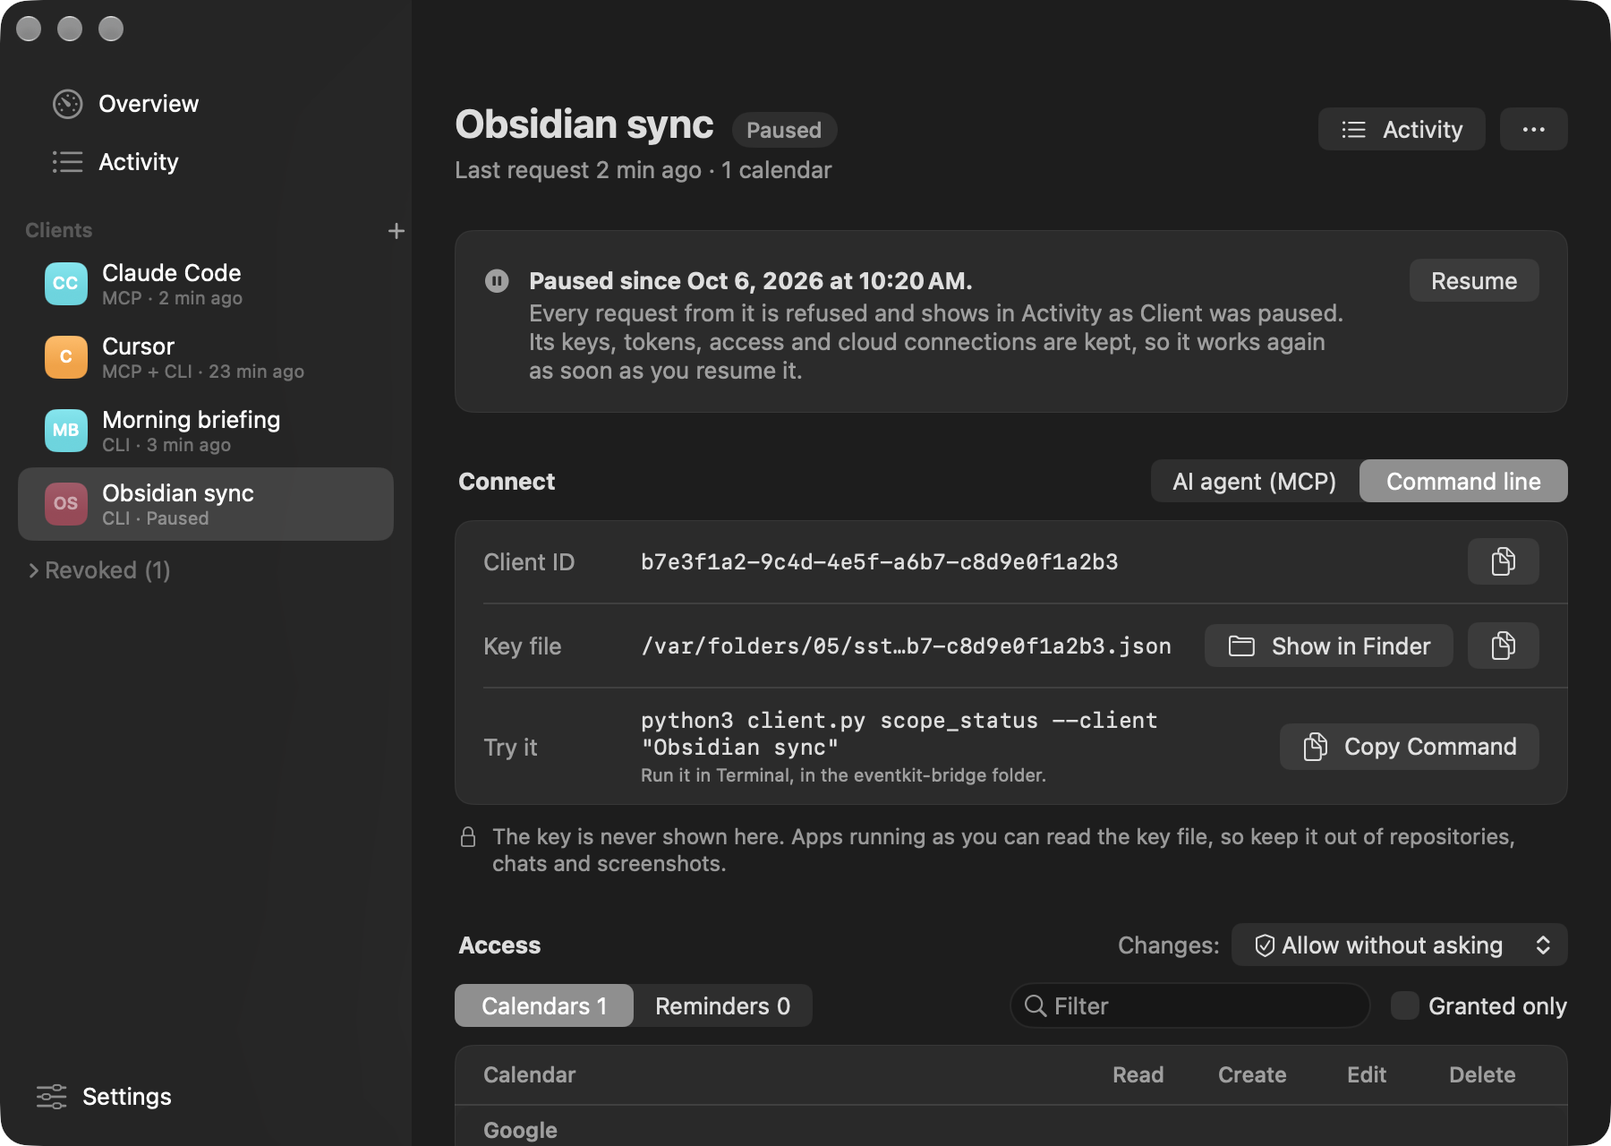
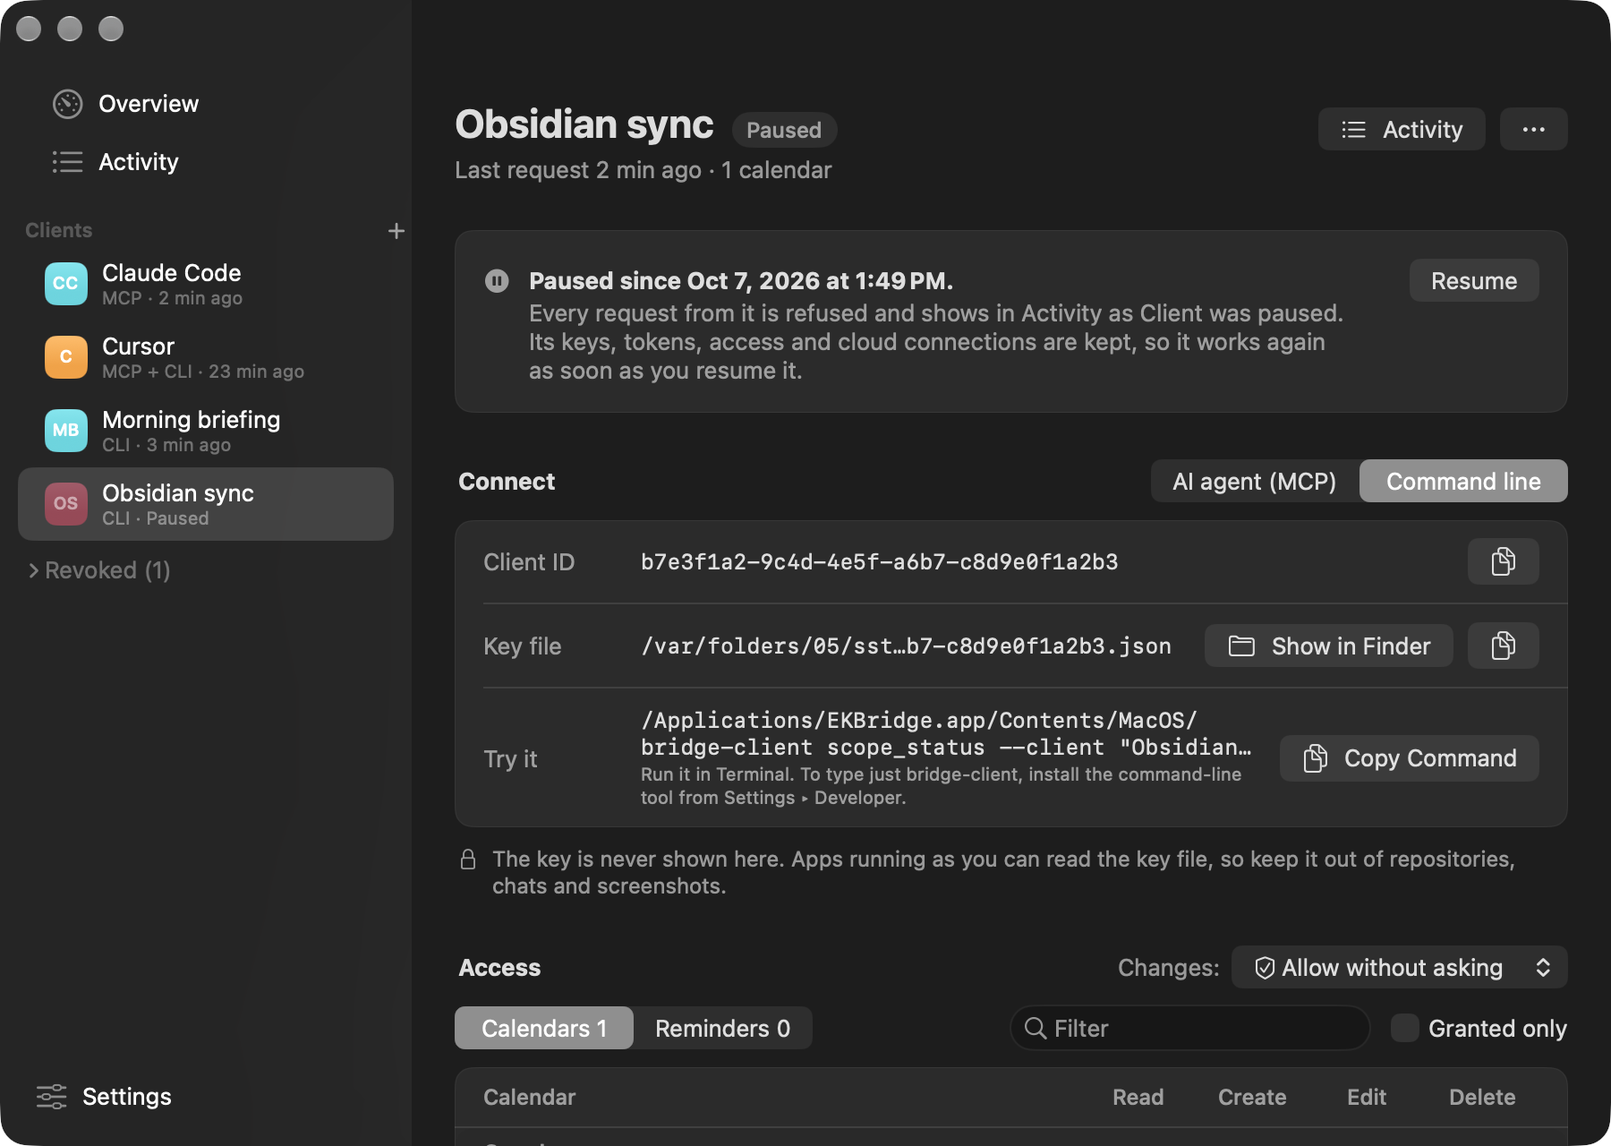
Copied commands work as pasted in a downloaded copy
The client page and the setup checklist offered `python3 client.py ...` "in
the ek-bridge folder" unless bridge-client was linked into ~/.local/bin, so a
DMG or Homebrew install without that link got a command that only works in a
source checkout. CommandLineTool.program now picks `bridge-client` when a link
on the PATH runs this copy (Settings' link, or Homebrew's in /opt/homebrew/bin
or /usr/local/bin), else this copy's bridge-client by its full path, and the
source launcher only for a build without one. Settings ▸ Developer says when
Homebrew already linked it. The UI review build shows /Applications in copied
commands and ignores this Mac's Homebrew links. Unit tests cover Homebrew
links (to this copy, another copy, a file), the program choice and quoting;
the client screenshots are retaken from the snapshot build.

diff --git a/Tests/CommandLineToolTests.swift b/Tests/CommandLineToolTests.swift
@@ -12,32 +12,58 @@ struct CommandLineToolTests {
         let other = root.appendingPathComponent("Old/EventKitBridge.app")
         try files.createDirectory(at: home, withIntermediateDirectories: true)
 
-        let tool = CommandLineTool(appURL: app, home: home)
+        let brew = root.appendingPathComponent("homebrew/bin")
+        let tool = CommandLineTool(appURL: app, home: home, packageBins: [brew])
         precondition(tool.linkURL.path == home.path + "/.local/bin/bridge-client")
         precondition(tool.bundledURL.path == app.path + "/Contents/MacOS/bridge-client")
 
-        // No bundled binary: nothing to link.
+        // No bundled binary: nothing to link, and commands use the source launcher.
         precondition(tool.state == .unavailable)
+        precondition(tool.program == .source && tool.program.text == "python3 client.py")
         precondition(tool.install() == .failure(.unavailable))
         precondition((try? files.attributesOfItem(atPath: tool.linkURL.path)) == nil)
 
         try executable(at: tool.bundledURL)
         precondition(tool.state == .notInstalled)
+        // Not linked anywhere: commands run this copy's bridge-client by its full path.
+        precondition(tool.program == .bundled(path: tool.bundledURL.path))
+        precondition(tool.program.text == tool.bundledURL.path, "a path without spaces isn't quoted")
+        precondition(!tool.linkedByPackageManager)
+
+        // Homebrew's link to this copy puts bridge-client on the PATH, without
+        // changing what Settings reports or installs.
+        try files.createDirectory(at: brew, withIntermediateDirectories: true)
+        let brewLink = brew.appendingPathComponent("bridge-client")
+        try files.createSymbolicLink(at: brewLink, withDestinationURL: tool.bundledURL)
+        precondition(tool.state == .notInstalled)
+        precondition(tool.program == .onPath && tool.program.text == "bridge-client")
+        precondition(tool.linkedByPackageManager)
+        // Homebrew's link to another copy doesn't count.
+        try files.removeItem(at: brewLink)
+        try files.createSymbolicLink(at: brewLink, withDestinationURL: other.appendingPathComponent("Contents/MacOS/bridge-client"))
+        precondition(tool.program == .bundled(path: tool.bundledURL.path) && !tool.linkedByPackageManager)
+        // Neither does a regular file there.
+        try files.removeItem(at: brewLink)
+        try Data("#!/bin/sh\n".utf8).write(to: brewLink)
+        precondition(tool.program == .bundled(path: tool.bundledURL.path))
+        try files.removeItem(at: brewLink)
 
         // Creates ~/.local/bin and the link.
         precondition(tool.install() == .success(tool.linkURL))
         precondition(tool.state == .installed)
+        precondition(tool.program == .onPath && !tool.linkedByPackageManager)
         let destination = try files.destinationOfSymbolicLink(atPath: tool.linkURL.path)
         precondition(destination == tool.bundledURL.path)
         precondition(tool.install() == .success(tool.linkURL), "installing again is harmless")
         precondition(tool.state == .installed)
 
         // A link to another copy of the app is replaced.
-        let otherTool = CommandLineTool(appURL: other, home: home)
+        let otherTool = CommandLineTool(appURL: other, home: home, packageBins: [brew])
         try executable(at: otherTool.bundledURL)
         precondition(otherTool.state == .elsewhere)
         precondition(otherTool.install() == .success(otherTool.linkURL))
         precondition(otherTool.state == .installed && tool.state == .elsewhere)
+        precondition(tool.program == .bundled(path: tool.bundledURL.path), "a link to another copy doesn't run this one")
 
         // A dangling link counts as elsewhere and is replaced too.
         try files.removeItem(at: other)
@@ -59,7 +85,15 @@ struct CommandLineToolTests {
         let kept = try String(contentsOf: tool.linkURL, encoding: .utf8)
         precondition(kept == "#!/bin/sh\n")
 
-        print("Command-line tool: unavailable, install, reinstall, other copy, dangling and relative links, file in the way passed")
+        // The displayed app path (the UI review build shows /Applications) and quoting.
+        let shown = CommandLineTool(appURL: app, home: root.appendingPathComponent("empty-home"), packageBins: [],
+                                    displayAppURL: URL(fileURLWithPath: "/Applications/EKBridge.app"))
+        precondition(shown.program.text == "/Applications/EKBridge.app/Contents/MacOS/bridge-client")
+        precondition(CommandLineTool.shellWord("/Users/a/My Apps/EKBridge.app/Contents/MacOS/bridge-client")
+                     == "'/Users/a/My Apps/EKBridge.app/Contents/MacOS/bridge-client'")
+        precondition(CommandLineTool.shellWord("/Users/o'neil/EKBridge.app") == #"'/Users/o'\''neil/EKBridge.app'"#)
+
+        print("Command-line tool: unavailable, install, reinstall, other copy, dangling and relative links, file in the way, Homebrew links, copied-command program and quoting passed")
     }
 
     private static func executable(at url: URL) throws {

diff --git a/Sources/CommandLineTool.swift b/Sources/CommandLineTool.swift
@@ -5,6 +5,10 @@ import Foundation
 /// needs no admin rights. Foundation only, so the unit test can use temporary folders.
 struct CommandLineTool {
     static let name = "bridge-client"
+    /// The source checkout's launcher, the same as `ConnectCommand.sourceProgram`.
+    static let sourceProgram = "python3 client.py"
+    /// Where `brew install --cask` links `bridge-client` (Apple silicon, Intel).
+    static let homebrewBins = [URL(fileURLWithPath: "/opt/homebrew/bin"), URL(fileURLWithPath: "/usr/local/bin")]
 
     enum State: Equatable {
         /// This copy of the app has no bundled `bridge-client`.
@@ -16,6 +20,26 @@ struct CommandLineTool {
         case elsewhere
     }
 
+    /// How copied commands start, so they run as pasted.
+    enum Program: Equatable {
+        /// `bridge-client` is on the PATH and runs this copy: the `~/.local/bin`
+        /// link, or Homebrew's.
+        case onPath
+        /// No link to this copy: the app's own `bridge-client`, by its full path.
+        case bundled(path: String)
+        /// This copy has no `bridge-client` (a build without one): the source
+        /// checkout's launcher, run in the checkout.
+        case source
+
+        var text: String {
+            switch self {
+            case .onPath: CommandLineTool.name
+            case .bundled(let path): CommandLineTool.shellWord(path)
+            case .source: CommandLineTool.sourceProgram
+            }
+        }
+    }
+
     enum InstallError: Error, Equatable {
         case unavailable
         /// A file that isn't a symbolic link is in the way; it's never replaced.
@@ -25,10 +49,18 @@ struct CommandLineTool {
 
     let bundledURL: URL
     let linkURL: URL
+    /// Links a package manager made (Homebrew's cask): they count for copied
+    /// commands, but Settings only installs and reports the `~/.local/bin` one.
+    let packageLinkURLs: [URL]
+    /// The app path shown in copied commands; the UI review build shows the
+    /// installed location instead of its build folder.
+    let displayBundledURL: URL
 
-    init(appURL: URL, home: URL) {
+    init(appURL: URL, home: URL, packageBins: [URL] = Self.homebrewBins, displayAppURL: URL? = nil) {
         bundledURL = appURL.appendingPathComponent("Contents/MacOS/\(Self.name)")
         linkURL = home.appendingPathComponent(".local/bin/\(Self.name)")
+        packageLinkURLs = packageBins.map { $0.appendingPathComponent(Self.name) }
+        displayBundledURL = (displayAppURL ?? appURL).appendingPathComponent("Contents/MacOS/\(Self.name)")
     }
 
     /// `~/.local/bin/bridge-client`, for display.
@@ -38,12 +70,41 @@ struct CommandLineTool {
         let files = FileManager.default
         guard files.isExecutableFile(atPath: bundledURL.path) else { return .unavailable }
         guard (try? files.attributesOfItem(atPath: linkURL.path)) != nil else { return .notInstalled }
-        guard let destination = try? files.destinationOfSymbolicLink(atPath: linkURL.path) else {
-            return .elsewhere
+        return pointsAtBundled(linkURL) ? .installed : .elsewhere
+    }
+
+    /// `bridge-client` when a link on the PATH runs this copy, else the
+    /// bundled one by its full path, so a copied command works without
+    /// installing anything first.
+    var program: Program {
+        switch state {
+        case .unavailable: return .source
+        case .installed: return .onPath
+        case .notInstalled, .elsewhere:
+            return packageLinkURLs.contains(where: pointsAtBundled) ? .onPath : .bundled(path: displayBundledURL.path)
         }
-        let target = URL(fileURLWithPath: destination, relativeTo: linkURL.deletingLastPathComponent())
+    }
+
+    /// True when Homebrew (not Settings) linked `bridge-client` to this copy.
+    var linkedByPackageManager: Bool {
+        state != .installed && state != .unavailable && packageLinkURLs.contains(where: pointsAtBundled)
+    }
+
+    /// Whether `link` is a symbolic link that resolves to this copy's `bridge-client`.
+    private func pointsAtBundled(_ link: URL) -> Bool {
+        guard let destination = try? FileManager.default.destinationOfSymbolicLink(atPath: link.path) else {
+            return false
+        }
+        let target = URL(fileURLWithPath: destination, relativeTo: link.deletingLastPathComponent())
         return target.standardizedFileURL.resolvingSymlinksInPath().path
-            == bundledURL.standardizedFileURL.resolvingSymlinksInPath().path ? .installed : .elsewhere
+            == bundledURL.standardizedFileURL.resolvingSymlinksInPath().path
+    }
+
+    /// A path as one shell word: as is when it has only safe characters, else in single quotes.
+    static func shellWord(_ path: String) -> String {
+        let safe = CharacterSet(charactersIn: "abcdefghijklmnopqrstuvwxyzABCDEFGHIJKLMNOPQRSTUVWXYZ0123456789/._+-")
+        if path.unicodeScalars.allSatisfy(safe.contains) { return path }
+        return "'" + path.replacingOccurrences(of: "'", with: "'\\''") + "'"
     }
 
     /// Creates `~/.local/bin` if needed and replaces a link that's already there

diff --git a/Sources/BridgeAppModel.swift b/Sources/BridgeAppModel.swift
@@ -190,6 +190,10 @@ final class BridgeAppModel {
     private(set) var loginItemError: String?
     private(set) var isInstalledInApplications = false
     private(set) var commandLineTool: CommandLineTool.State = .unavailable
+    /// How copied commands start (`bridge-client`, the app's own copy, or the source launcher).
+    private(set) var cliCommand: CommandLineTool.Program = .source
+    /// Homebrew linked `bridge-client` to this copy (Settings reports only its own link).
+    private(set) var cliLinkedByHomebrew = false
     private(set) var now = Date()
     private(set) var accessRequestInFlight = Set<ClientResource>()
     private(set) var accessRequestDeclined = Set<ClientResource>()
@@ -437,7 +441,7 @@ final class BridgeAppModel {
             if listed != collections { collections = listed }
             loginItem = services.loginItemStatus()
             isInstalledInApplications = services.isInstalledInApplications()
-            commandLineTool = services.commandLineTool.state
+            refreshCommandLineTool()
             refreshUpdater()
         }
         reconcileDraft()
@@ -1190,10 +1194,16 @@ final class BridgeAppModel {
         services.defaults.set(setupSkipped.map(\.rawValue), forKey: Keys.setupSkipped)
     }
 
-    /// The program copied commands start with: `bridge-client` once it's
-    /// installed from this copy of the app, else the source checkout's launcher.
-    var cliProgram: String {
-        commandLineTool == .installed ? CommandLineTool.name : ConnectCommand.sourceProgram
+    /// The program copied commands start with: `bridge-client` when a link on
+    /// the PATH (Settings' or Homebrew's) runs this copy, else this copy's own
+    /// `bridge-client` by its full path, so the command works as pasted.
+    var cliProgram: String { cliCommand.text }
+
+    private func refreshCommandLineTool() {
+        let tool = services.commandLineTool
+        commandLineTool = tool.state
+        cliCommand = tool.program
+        cliLinkedByHomebrew = tool.linkedByPackageManager
     }
 
     func installCommandLineTool() {
@@ -1218,7 +1228,7 @@ final class BridgeAppModel {
                               title: String(localized: "Couldn't install \(CommandLineTool.name)."),
                               message: reason))
         }
-        commandLineTool = tool.state
+        refreshCommandLineTool()
     }
 
     func copyTestCommand() {

diff --git a/Sources/UIReview.swift b/Sources/UIReview.swift
@@ -146,7 +146,10 @@ final class UIReview {
             loginItemStatus: { [unowned self] in self.loginItemStatus },
             setLoginItem: { [unowned self] on in self.loginItemStatus = on ? .enabled : .notRegistered },
             isInstalledInApplications: { [unowned self] in self.installedInApplications },
-            commandLineTool: CommandLineTool(appURL: Bundle.main.bundleURL, home: directory),
+            // No Homebrew folders (this Mac's own links must not count), and the
+            // installed location in copied commands instead of the build folder.
+            commandLineTool: CommandLineTool(appURL: Bundle.main.bundleURL, home: directory, packageBins: [],
+                                             displayAppURL: URL(fileURLWithPath: "/Applications/EKBridge.app")),
             testCollections: nil,
             mcp: MCPControls(
                 start: { [unowned self] _ in
@@ -856,7 +859,7 @@ final class BehaviorReview {
         step("Install Command-Line Tool links bridge-client") {
             self.model.refresh()
             guard self.model.commandLineTool == .notInstalled,
-                  self.model.cliProgram == ConnectCommand.sourceProgram else { return false }
+                  self.model.cliProgram == "/Applications/EKBridge.app/Contents/MacOS/bridge-client" else { return false }
             self.model.installCommandLineTool()
             return self.model.commandLineTool == .installed && self.model.banner?.kind == .success
         }

diff --git a/Sources/ClientDetailView.swift b/Sources/ClientDetailView.swift
@@ -268,9 +268,7 @@ struct CommandLineConnect: View {
                         MonoText(text: ConnectCommand.scopeStatus(for: client, among: model.clients, program: model.cliProgram),
                                  truncation: .tail, lines: 2)
                             .fixedSize(horizontal: false, vertical: true)
-                        Text(model.commandLineTool == .installed
-                             ? String(localized: "Run it in Terminal.")
-                             : String(localized: "Run it in Terminal, in the ek-bridge folder, or install the command-line tool from Settings ▸ Developer."))
+                        Text(tryItHint)
                             .font(.caption)
                             .foregroundStyle(.secondary)
                     }
@@ -286,6 +284,17 @@ struct CommandLineConnect: View {
                 .foregroundStyle(.secondary)
                 .fixedSize(horizontal: false, vertical: true)
                 .padding(.leading, 2)
+        }
+    }
+
+    private var tryItHint: String {
+        switch model.cliCommand {
+        case .onPath:
+            String(localized: "Run it in Terminal.")
+        case .bundled:
+            String(localized: "Run it in Terminal. To type just bridge-client, install the command-line tool from Settings ▸ Developer.")
+        case .source:
+            String(localized: "Run it in Terminal, in the ek-bridge folder.")
         }
     }
 }

diff --git a/Sources/OverviewView.swift b/Sources/OverviewView.swift
@@ -497,9 +497,9 @@ struct SetupStepRow: View {
             if focus?.hasMCPToken == true {
                 return String(localized: "Copy the setup for your agent, then ask it something like “What's on my calendar today?”")
             }
-            return model.commandLineTool == .installed
-                ? String(localized: "Copy the command and run it in Terminal. This step completes when the request arrives.")
-                : String(localized: "Copy the command and run it in Terminal, in the ek-bridge folder, or install the command-line tool from Settings ▸ Developer first. This step completes when the request arrives.")
+            return model.cliCommand == .source
+                ? String(localized: "Copy the command and run it in Terminal, in the ek-bridge folder. This step completes when the request arrives.")
+                : String(localized: "Copy the command and run it in Terminal. This step completes when the request arrives.")
         }
     }
 

diff --git a/Sources/SettingsView.swift b/Sources/SettingsView.swift
@@ -195,6 +195,8 @@ struct SettingsView: View {
         switch model.commandLineTool {
         case .installed:
             String(localized: "bridge-client is in ~/.local/bin and runs this copy of the app’s client.")
+        case .notInstalled where model.cliLinkedByHomebrew:
+            String(localized: "Homebrew already linked bridge-client to this copy of the app. Installing also adds it to ~/.local/bin.")
         case .notInstalled:
             String(localized: "Adds bridge-client to ~/.local/bin for scripts and Terminal. No administrator password needed.")
         case .elsewhere:

diff --git a/docs/USAGE.md b/docs/USAGE.md
@@ -13,7 +13,7 @@ On first launch the window opens on a setup checklist. The steps can be done in 
 - **Choose what the client can use.** Opens the client's Access table.
 - **Turn on the bridge.** The choice is kept across launches.
 - **Turn on the MCP server.** Shown only when the client connects as an AI agent.
-- **Connect your tool.** For a command-line client, **Copy Command** copies `bridge-client scope_status --client "<name>"` once the command-line tool is installed (Settings ▸ Developer), or `python3 client.py …` to run in Terminal in a source checkout. For an agent, open Connect ▸ AI agent, copy the setup, and ask the agent something like "What's on my calendar today?". The step completes when the first request arrives, and the checklist turns into the normal Overview.
+- **Connect your tool.** For a command-line client, **Copy Command** copies a command that works as pasted: `bridge-client scope_status --client "<name>"` once `bridge-client` runs this copy of the app (installed from Settings ▸ Developer, or linked by Homebrew), else the app's own copy by its full path, such as `/Applications/EKBridge.app/Contents/MacOS/bridge-client scope_status …`. A build without a bundled client falls back to `python3 client.py …`, run in the source checkout. For an agent, open Connect ▸ AI agent, copy the setup, and ask the agent something like "What's on my calendar today?". The step completes when the first request arrives, and the checklist turns into the normal Overview.
 
 **Hide Setup** hides the checklist; **Help ▸ Show Setup Checklist** or Settings ▸ About brings it back.
 

diff --git a/CHANGELOG.md b/CHANGELOG.md
@@ -10,6 +10,10 @@ Versions up to 0.7.0 were built and used from source only; none was published as
 
 - Each release also carries its disk image as **`EKBridge.dmg`**, a name that's the same in every release, so [`releases/latest/download/EKBridge.dmg`](https://github.com/bereciartua/ek-bridge/releases/latest/download/EKBridge.dmg) always downloads the newest version. `scripts/release_assets.sh` makes the copy and writes `SHA256SUMS` for both DMG names and the zip; the versioned `EKBridge-<version>.dmg` stays for the Homebrew cask and older links.
 
+### Fixed
+
+- **A copied command now works as pasted in a downloaded copy.** The client page and the setup checklist offered `python3 client.py …`, "in the ek-bridge folder", unless the command-line tool was installed in `~/.local/bin`, which works only in a source checkout. They now copy `bridge-client …` when `bridge-client` runs this copy of the app (installed from Settings ▸ Developer or linked by Homebrew's cask), else the app's own copy by its full path, `/Applications/EKBridge.app/Contents/MacOS/bridge-client …`. Settings ▸ Developer says when Homebrew already linked it.
+
 ### Changed
 
 - The README opens like a product page: the icon, a one-line pitch, badges, a Download link, the Overview screenshot, three reasons to use it and the agents it has setups for. Three new sections follow the setup steps: **What you can ask** (example prompts and the tools they use), **How it works** (what's checked, the safeguards, and what it doesn't protect against) and a short **FAQ**. Nothing was removed.

diff --git a/README.md b/README.md
@@ -64,9 +64,12 @@ These are the same steps as the setup checklist the app shows on first launch:
 bridge-client scope_status --client "Claude Code"
 ```
 
-From a source checkout, `python3 client.py` works the same way.
+Until `bridge-client` is installed (or linked by Homebrew), the client page copies the same command with the app's full path, `/Applications/EKBridge.app/Contents/MacOS/bridge-client`, so it works as pasted. From a source checkout, `python3 client.py` works the same way.
 
-<img alt="A client page: Connect shows the client ID, key file path and a command to copy; Access shows calendars grouped by account with Read, Create, Edit and Delete checkboxes." src="docs/images/client-light.png" width="720">
+<picture>
+  <source media="(prefers-color-scheme: dark)" srcset="docs/images/client-dark.png">
+  <img alt="A client page: Connect shows the client ID, key file path and a command to copy; Access shows calendars grouped by account with Read, Create, Edit and Delete checkboxes." src="docs/images/client-light.png" width="720">
+</picture>
 
 `bridge-client --help` lists every command and the access it needs. Errors say what's wrong and how to fix it, with a distinct exit code for each kind of problem ([API and CLI](docs/API.md)). The app's **Activity** pane shows every request with a plain explanation of its result.
 
